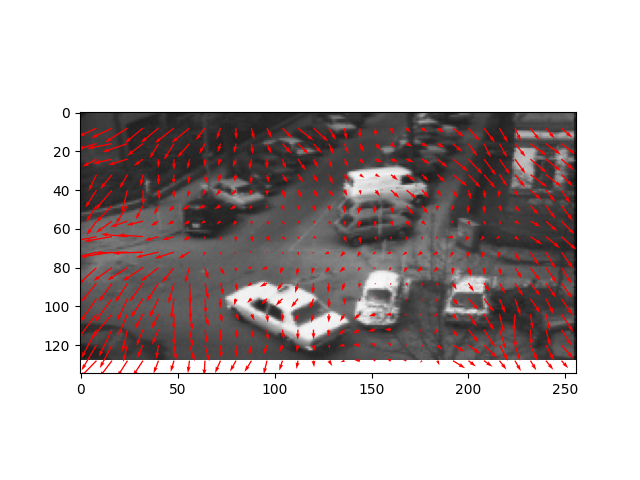
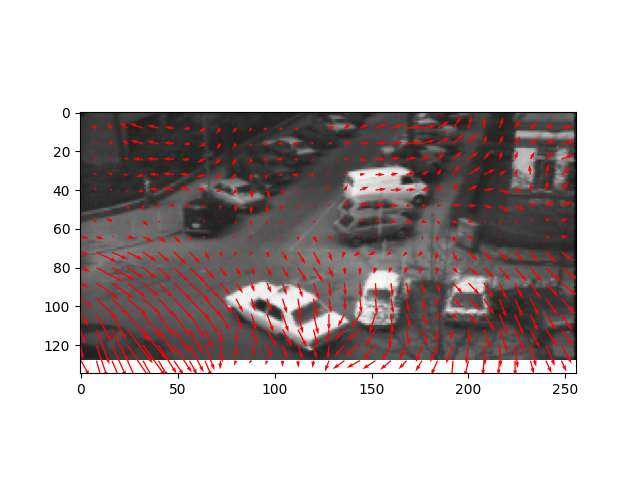
changes in flownetS

Changed region(s): [[0.125, 0.25, 0.9062, 0.7812]]

diff --git a/flownetS.py b/flownetS.py
@@ -21,23 +21,23 @@ from tensorflow.keras.layers import Conv2D, Conv2DTranspose, BatchNormalization
 from tensorflow.keras.layers import MaxPooling2D
 from tensorflow.keras.layers import ReLU
 from tensorflow.keras.layers import Concatenate
-from tensorflow.keras.callbacks import EarlyStopping, ModelCheckpoint
+from tensorflow.keras.callbacks import EarlyStopping, ModelCheckpoint, LearningRateScheduler
 
 from utilities.utils import utilsProcessing
 from utilities.utils import preprocessing
 
+def epe_loss_function(y_actual, y_predicted):
+    return tf.reduce_mean(tf.norm(y_actual - y_predicted, ord = 2, axis = -1))
+
+def scheduler(epoch, lr):
+    if epoch < 10:
+        return lr
+    else:
+        return lr * tf.math.exp(-1.0)
+
 class flownetS:
     def __init__(self):
         self.IMG_CHANNELS = 3
-
-    def epeloss(y_actual, y_predicted):
-        return tf.reduce_sum(tf.norm(y_actual-y_predicted,axis=1))
-
-    def custom_loss_function(y_actual, y_predicted):
-        y_predicted = tf.convert_to_tensor(y_predicted)
-        y_actual = tf.cast(y_actual, y_predicted.dtype)
-        custom_loss_value = tf.math.reduce_mean(tf.math.reduce_sum(tf.norm(y_actual - y_predicted)))
-        return custom_loss_value
 
     def net(self):
         inputs = Input((None, None, self.IMG_CHANNELS*2))
@@ -157,6 +157,7 @@ if __name__ == '__main__':
     obj.createDataset(X_train, Y_train, x, y, x_files, y_files)
 
     #checkpointer = ModelCheckpoint('./models/flownetS-weights-500.ckpt', verbose=1, save_weights_only=True, save_best_only=True)
+    #keras_checkpointers = [ModelCheckpoint('./models/flownetS-weights-500.ckpt', verbose=1, save_weights_only=True, save_best_only=True), LearningRateScheduler(scheduler)]
 
     checkpointer = ModelCheckpoint('./models/flowNetS-complete-500.h5', verbose=1, save_best_only=True)
     results = model.fit(X_train, Y_train, validation_split=0.1, batch_size=32, shuffle=True, epochs=500, callbacks=[checkpointer])

diff --git a/utilities/utils.py b/utilities/utils.py
@@ -156,7 +156,8 @@ class preprocessing:
         return X_train, Y_train
 
     def epeCalculate(self, actual, pred):
-        return tf.reduce_mean(tf.norm(actual-pred,axis=1))
+        #return tf.reduce_mean(tf.math.sqrt(tf.math.square(actual-pred)))
+        return tf.reduce_mean(tf.norm(actual - pred, ord = 2, axis = -1))
 
     def predict(self, model_path, img_path_1, img_path_2):
         #requires the .h5 file that has the weights and baises from the trained model
@@ -234,7 +235,7 @@ if __name__ == '__main__':
     '''
     img_path_1 = '/home/wilfred/Downloads/github/Python_Projects/flownet-tf/data/cars/seq01.png'
     img_path_2 = '/home/wilfred/Downloads/github/Python_Projects/flownet-tf/data/cars/seq02.png'
-    path = '/home/wilfred/Downloads/flowNetS-complete-500-1.h5'
+    path = '/home/wilfred/Downloads/flowNetS-complete-500.h5'
     
     obj = preprocessing()
     obj.predict(path,img_path_1,img_path_2)
@@ -245,11 +246,12 @@ if __name__ == '__main__':
     print(flow.shape)
 
     obj.quiverPlot(flow)
-    '''
     
+    '''
     obj = utilsProcessing()
     objpre = preprocessing()
     actual = obj.flowToArray("/home/wilfred/Datasets/testFolder/data/training/flow/alley_1/frame_0001.flo")
-    pred = obj.flowToArray("/home/wilfred/Datasets/testFolder/data/training/flow/alley_1/frame_0005.flo")
+    pred = obj.flowToArray("/home/wilfred/Datasets/testFolder/data/training/flow/alley_1/frame_0002.flo")
 
     print(objpre.epeCalculate(actual, pred).numpy())
+    
